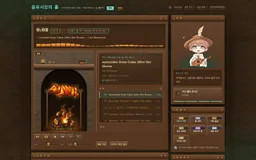
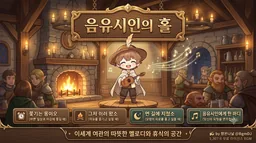
게시판 썸네일을 대표 이미지로, 도름 수 제거, 프로필 화면에서 고치기
썸네일
  logo 가 있으면 그걸 쓰고 있었는데, logo 는 앱 사이트에 있는 스크린샷이라
  본문 한 장면인 경우가 많았습니다. 도름스에 올린 대표 이미지는 image
  입니다. 제대로 나온 것들은 전부 logo 가 없어서 image 를 쓴 경우였습니다.

  급식쪽지와 음유시인의 홀이 그래서 엉뚱한 그림이 걸렸습니다. image 를
  먼저 쓰고 없을 때만 logo 로 물러서도록 바꾸고, 열 장을 다시 받았습니다.

도름 수
  게시판에서 뺐습니다.

프로필 화면에서 고치기
  설정 파일 값을 기본으로 두고, 주인장이 고친 것만 Firestore 에
  덮어씁니다. 파일을 고쳐 다시 배포하지 않아도 바뀝니다.

    이름 / 한 줄 소개 / 이름 아래 한 줄 / 소개 글

  프로필 탭 제목 옆 "수정" 은 주인장에게만 보입니다. 저장하면 왼쪽 패널과
  프로필 탭이 함께 바뀝니다.

  비워 두면 그 항목은 설정 파일 값으로 돌아갑니다. 되돌리기가 쉬워야
  마음 편히 고칩니다.

  규칙에서 필드 이름과 글자 수를 막았습니다. 안 막으면 큰 문서를 계속
  밀어 넣을 수 있습니다. 클라이언트와 규칙의 상한을 같게 맞췄습니다.

  Firebase 를 안 붙인 포크에서는 이 기능이 조용히 꺼지고 설정 파일 값만
  씁니다.

lint 0건, 빌드 통과. 규칙 중괄호 24/24 균형.

diff --git a/src/components/LinkTree.tsx b/src/components/LinkTree.tsx
@@ -16,12 +16,16 @@ import {
   deleteGuestbookEntry,
   isOwner,
   isSecretGuestbookEnabled,
+  PROFILE_LIMITS,
+  saveProfile,
+  subscribeProfile,
   updateGuestbookEntry,
   recordVisit,
   signInWithGoogle,
   signOutOfGoogle,
   subscribeGuestbook,
   subscribeUser,
+  type ProfileOverride,
   type RemoteEntry,
   type SignedInUser,
   type VisitCounts
@@ -171,17 +175,140 @@ function HomeTab() {
   );
 }
 
-function ProfileTab() {
+/* 설정 파일 값을 기본으로 두고 주인장이 고친 것만 덮어씁니다.
+   Firebase 를 안 붙였으면 설정 파일 값 그대로입니다. */
+function useProfileOverride() {
+  const [over, setOver] = useState<ProfileOverride>({});
+  useEffect(() => subscribeProfile(setOver), []);
+  return over;
+}
+
+function ProfileEditor({ over, onClose }: { over: ProfileOverride; onClose: () => void }) {
+  const fieldId = useId();
+  const [name, setName] = useState(over.teacherName ?? profile.teacherName);
+  const [intro, setIntro] = useState(over.introDescription ?? profile.introDescription);
+  const [sub, setSub] = useState(over.catalogDescription ?? profile.catalogDescription);
+  const [lines, setLines] = useState(
+    (over.aboutLines ?? defaultAboutLines()).join("\n")
+  );
+  const [busy, setBusy] = useState(false);
+  const [error, setError] = useState<string | null>(null);
+
+  const save = async () => {
+    if (busy) return;
+    setBusy(true);
+    setError(null);
+    try {
+      await saveProfile({
+        teacherName: name,
+        introDescription: intro,
+        catalogDescription: sub,
+        aboutLines: lines.split("\n")
+      });
+      onClose();
+    } catch (e) {
+      setError(e instanceof Error ? e.message : "저장하지 못했어요.");
+    } finally {
+      setBusy(false);
+    }
+  };
+
+  return (
+    <div className="cy-edit">
+      <label className="cy-edit-row">
+        <span>이름</span>
+        <input
+          id={`${fieldId}-name`}
+          name="profile-name"
+          value={name}
+          onChange={e => setName(e.target.value)}
+          maxLength={PROFILE_LIMITS.name}
+        />
+      </label>
+      <label className="cy-edit-row">
+        <span>한 줄 소개</span>
+        <input
+          id={`${fieldId}-intro`}
+          name="profile-intro"
+          value={intro}
+          onChange={e => setIntro(e.target.value)}
+          maxLength={PROFILE_LIMITS.line}
+        />
+      </label>
+      <label className="cy-edit-row">
+        <span>이름 아래 한 줄</span>
+        <input
+          id={`${fieldId}-sub`}
+          name="profile-sub"
+          value={sub}
+          onChange={e => setSub(e.target.value)}
+          maxLength={PROFILE_LIMITS.line}
+        />
+      </label>
+      <label className="cy-edit-row cy-edit-tall">
+        <span>소개 글</span>
+        <textarea
+          id={`${fieldId}-about`}
+          name="profile-about"
+          value={lines}
+          onChange={e => setLines(e.target.value)}
+          rows={4}
+        />
+      </label>
+      <p className="cy-edit-hint">
+        한 줄에 하나씩 적으면 문단이 나뉩니다. 최대 {PROFILE_LIMITS.lines}줄.
+        비워 두면 처음 설정한 내용으로 돌아갑니다.
+      </p>
+      <div className="cy-edit-buttons">
+        <button type="button" className="cy-gb-submit" onClick={save} disabled={busy}>
+          {busy ? "저장중" : "저장"}
+        </button>
+        <button type="button" className="cy-oe-btn" onClick={onClose} disabled={busy}>
+          취소
+        </button>
+      </div>
+      {error ? <span className="cy-gb-message is-error">{error}</span> : null}
+    </div>
+  );
+}
+
+/* 설정 파일에 적힌 소개 글의 첫 문단들입니다. 고치기 화면의 기본값으로 씁니다. */
+function defaultAboutLines() {
+  const block = profileSections[0]?.blocks.find(b => b.kind === "text");
+  return block && block.kind === "text" ? block.lines : [];
+}
+
+function ProfileTab({ viewer }: { viewer: SignedInUser | null }) {
+  const over = useProfileOverride();
+  const [editing, setEditing] = useState(false);
+
   return (
     <>
-      {profileSections.map(section => (
+      {profileSections.map((section, si) => (
         <div key={section.id} className="cy-content-box">
-          <SectionTitle title={section.title} sub={section.subtitle} />
+          <div className="cy-section-title">
+            {section.title}
+            {section.subtitle ? <span className="cy-sub-text">{section.subtitle}</span> : null}
+            {/* 주인장만 고칠 수 있습니다. 파일을 고쳐 다시 배포하지 않아도
+                바뀌도록 첫 구역에만 답니다. */}
+            {si === 0 && isOwner(viewer) && !editing ? (
+              <button type="button" className="cy-edit-btn" onClick={() => setEditing(true)}>
+                수정
+              </button>
+            ) : null}
+          </div>
+
+          {si === 0 && editing ? (
+            <ProfileEditor over={over} onClose={() => setEditing(false)} />
+          ) : null}
+
           {section.blocks.map((block, bi) => {
             if (block.kind === "text") {
+              /* 고친 소개 글이 있으면 그것을, 없으면 설정 파일 값을 씁니다. */
+              const lines = si === 0 && over.aboutLines?.length ? over.aboutLines : block.lines;
               return (
                 <div key={bi} className="cy-text-block">
-                  {block.lines.map((line, i) => (
+                  {lines.map((line, i) => (
                     <p key={i}>{line}</p>
                   ))}
                 </div>
@@ -291,11 +418,7 @@ function BoardTab() {
                     <span className="cy-board-title">{post.title}</span>
                   </span>
                   {post.summary ? <span className="cy-board-summary">{post.summary}</span> : null}
-                  <span className="cy-board-date">
-                    {post.date}
-                    {/* 도름스에서 온 글에는 받은 도름 수를 함께 보여 줍니다. */}
-                    {post.dorms ? <span className="cy-board-dorms">도름 {post.dorms}</span> : null}
-                  </span>
+                  <span className="cy-board-date">{post.date}</span>
                 </span>
               </a>
             </li>
@@ -670,9 +793,13 @@ function PhotoTab() {
 }
 
 export default function LinkTree() {
+  const over = useProfileOverride();
+  const [viewer, setViewer] = useState<SignedInUser | null>(null);
   const [activeTab, setActiveTab] = useState<TabName>("home");
   const [introSkipped, setIntroSkipped] = useState(false);
   const bgmRef = useRef<BgmHandle>(null);
+
+  useEffect(() => subscribeUser(setViewer), []);
 
   /* ?tab=프로필 처럼 탭 딥링크로 들어오면 진입 화면을 건너뜁니다.
      정적 배포에서도 동작하도록 브라우저에서 읽습니다. */
@@ -729,14 +856,16 @@ export default function LinkTree() {
                 </div>
 
                 <div className="cy-intro-text">
-                  {profile.introDescription}
+                  {over.introDescription ?? profile.introDescription}
                 </div>
 
                 <BgmPlayer ref={bgmRef} />
 
                 <div className="cy-profile-name">
-                  <div className="name-bold">{profile.teacherName}</div>
-                  <div className="title-sub">{profile.catalogDescription}</div>
+                  <div className="name-bold">{over.teacherName ?? profile.teacherName}</div>
+                  <div className="title-sub">
+                    {over.catalogDescription ?? profile.catalogDescription}
+                  </div>
                 </div>
 
                 {/* select 의 onChange 로 새 창을 열면, 키보드로 항목을 훑는 동안
@@ -771,7 +900,7 @@ export default function LinkTree() {
                 aria-labelledby={`cy-tab-${activeTab}`}
               >
                 {activeTab === "home" && <HomeTab />}
-                {activeTab === "profile" && <ProfileTab />}
+                {activeTab === "profile" && <ProfileTab viewer={viewer} />}
                 {activeTab === "story" && <StoryTab />}
                 {activeTab === "board" && <BoardTab />}
                 {activeTab === "photo" && <PhotoTab />}

diff --git a/src/lib/firebase.ts b/src/lib/firebase.ts
@@ -705,3 +705,74 @@ export async function moveOekakiImage(drawingId: string, image: string) {
   });
   await updateDoc(doc(store, OEKAKI, drawingId), { image: deleteField() });
 }
+
+/* ---------------------------------------------------------------
+   프로필 고쳐 쓰기
+
+   설정 파일(linktree.ts)의 값을 기본으로 두고, 주인장이 화면에서 고친
+   것만 Firestore 에 덮어 씁니다. 파일을 고쳐 다시 배포하지 않아도
+   바뀌도록 하려는 것입니다.
+
+   비워 두면 설정 파일 값으로 돌아갑니다. 되돌리기가 쉬워야 마음 편히
+   고칩니다.
+   --------------------------------------------------------------- */
+
+export const PROFILE_LIMITS = { name: 20, line: 120, lines: 6 } as const;
+
+export type ProfileOverride = {
+  teacherName?: string;
+  introDescription?: string;
+  catalogDescription?: string;
+  aboutLines?: string[];
+};
+
+export function subscribeProfile(onChange: (value: ProfileOverride) => void) {
+  if (!isGuestbookEnabled) return () => {};
+
+  let stop: (() => void) | null = null;
+  let cancelled = false;
+
+  void (async () => {
+    const { doc, onSnapshot } = (await loadSdk()).store;
+    const store = await getDb();
+    if (!store || cancelled) return;
+    const un = onSnapshot(
+      doc(store, "site", "profile"),
+      snap => onChange((snap.data() ?? {}) as ProfileOverride),
+      () => onChange({})
+    );
+    if (cancelled) un();
+    else stop = un;
+  })();
+
+  return () => {
+    cancelled = true;
+    stop?.();
+  };
+}
+
+export async function saveProfile(value: ProfileOverride) {
+  const { doc, setDoc } = (await loadSdk()).store;
+  const store = await getDb();
+  const instance = await getAuthOrNull();
+  if (!store || !instance) throw new Error("프로필 기능이 설정되지 않았습니다.");
+
+  const me = toSignedInUser(instance.currentUser);
+  if (!isOwner(me)) throw new Error("주인장만 고칠 수 있어요.");
+
+  /* 빈 값은 아예 넣지 않습니다. 설정 파일 값으로 돌아갑니다. */
+  const clean: Record<string, string | string[]> = {};
+  const name = (value.teacherName ?? "").trim();
+  const intro = (value.introDescription ?? "").trim();
+  const sub = (value.catalogDescription ?? "").trim();
+  const lines = (value.aboutLines ?? []).map(l => l.trim()).filter(Boolean);
+
+  if (name) clean.teacherName = name.slice(0, PROFILE_LIMITS.name);
+  if (intro) clean.introDescription = intro.slice(0, PROFILE_LIMITS.line);
+  if (sub) clean.catalogDescription = sub.slice(0, PROFILE_LIMITS.line);
+  if (lines.length) {
+    clean.aboutLines = lines.slice(0, PROFILE_LIMITS.lines).map(l => l.slice(0, PROFILE_LIMITS.line));
+  }
+
+  await setDoc(doc(store, "site", "profile"), clean);
+}

diff --git a/src/app/globals.css b/src/app/globals.css
@@ -1863,9 +1863,83 @@ body.lt-intro-open {
   font-weight: bold;
 }
 
-/* 도름스에서 받은 도름 수 */
-.cy-board-dorms {
+/* 주인장이 프로필을 고치는 자리 */
+.cy-edit-btn {
   margin-left: 6px;
-  color: var(--point);
-  font-weight: bold;
+  padding: 1px 7px;
+  border: 1px solid var(--frame-strong);
+  border-radius: 3px;
+  background: #fff;
+  color: var(--sub-ink);
+  font-family: inherit;
+  font-size: 0.62rem;
+  cursor: pointer;
+  vertical-align: middle;
+}
+.cy-edit-btn:hover {
+  background: var(--point);
+  border-color: var(--point);
+  color: #fff;
+}
+
+.cy-edit {
+  margin: 8px 0 10px;
+  padding: 10px;
+  border: 1px solid var(--frame);
+  border-radius: 4px;
+  background: var(--mint-tint);
+}
+.cy-edit-row {
+  display: flex;
+  align-items: center;
+  gap: 6px;
+  margin-bottom: 6px;
+}
+.cy-edit-row > span {
+  flex: 0 0 84px;
+  font-size: 0.72rem;
+  color: var(--sub-ink);
+}
+.cy-edit-row input,
+.cy-edit-row textarea {
+  flex: 1;
+  min-width: 0;
+  font-family: inherit;
+  font-size: 0.75rem;
+  padding: 4px 6px;
+  border: 1px solid #ccc;
+  border-radius: 3px;
+  background: #fff;
+  color: #444;
+}
+.cy-edit-row textarea {
+  resize: vertical;
+  line-height: 1.5;
+}
+.cy-edit-tall {
+  align-items: flex-start;
+}
+.cy-edit-tall > span {
+  padding-top: 5px;
+}
+.cy-edit-hint {
+  margin: 0 0 8px;
+  font-size: 0.66rem;
+  color: #999;
+  line-height: 1.5;
+}
+.cy-edit-buttons {
+  display: flex;
+  gap: 5px;
+}
+
+@media (max-width: 480px) {
+  .cy-edit-row {
+    flex-direction: column;
+    align-items: stretch;
+    gap: 3px;
+  }
+  .cy-edit-row > span {
+    flex: none;
+  }
 }
